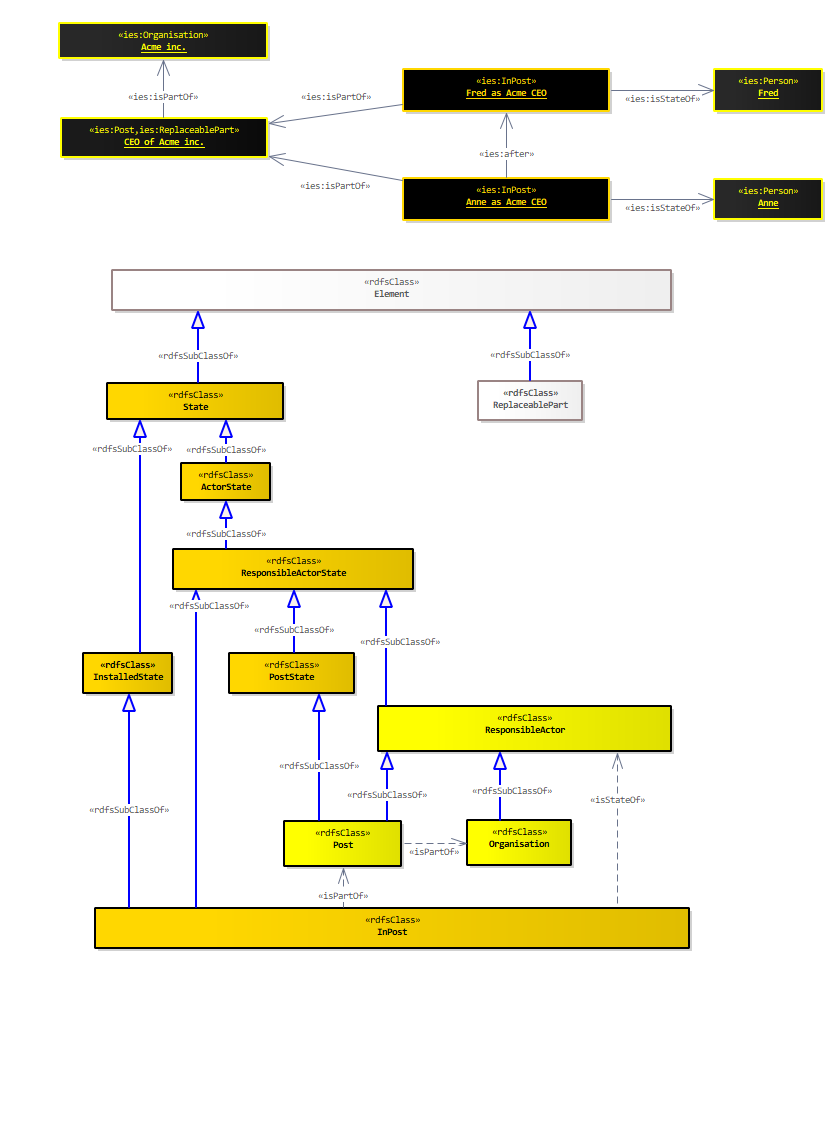
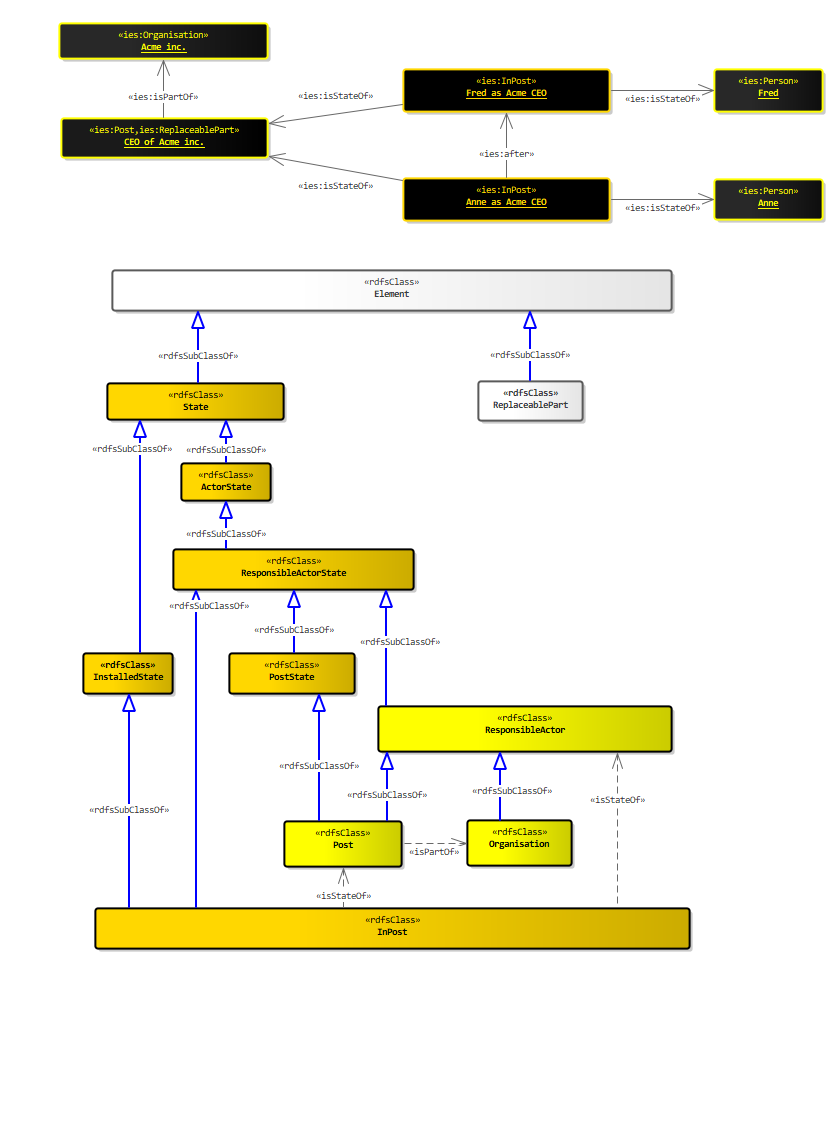
update documentation with isStateOf fix for InstalledState relation to ReplaceablePart plus minor definition changes for Assessment, Colour and ISO4217

diff --git a/ies.md b/ies.md
@@ -263,6 +263,7 @@ Otherwise, things to watch out for in the UML are:
 <ul>
 	<li>Removal of <b>hasRole</b>, <b>Role </b>and <b>OrganisationRole </b>(breaking change). Instead use <b>ReplaceablePart</b>/<b>InPost</b> example now provided in the same pattern</li>
 	<li>Update to definition of <b>InPost </b>now that is also a <b>InstalledState</b></li>
+	<li>Corrected relationship between <b>inPost </b>and <b>Post </b>from isPartOf to <b>isStateOf</b></li>
 </ul>
 5. Changes to <b>Assessment </b>pattern:
 <ul>
@@ -2788,7 +2789,7 @@ An Event where an actor makes a subjective judgement against a thing. This can b
 
 Examples include:
 - Having 'HIGH' confidence that Anne committed the murder.
-- Assessing a statement made in an internet article as with being true or false.
+- Assessing a statement made in an internet article as being true or false.
 - Assessing a house to having an energy performance of 'B'
 - Assessing the odds of England winning the World Cup as 20-1
 
@@ -3075,7 +3076,7 @@ An <a href="#{B376370E-F5E8-4287-A3EC-AC35532919B1}"><font color="#0000ff"><u>Ev
 Note: whilst colocation can be easily inferred from data, sometimes it's important to call out specific instances where entities of interest were in the same place at the same time.
 
 ### <a id="{B10D22FB-1D6A-47c9-B1C0-E870D43A5C52}"></a>Colour
-An Characteristic whose members all have the same colour
+A Characteristic whose members all have the same colour
 
 ### <a id="{1456439C-65C9-4a39-A743-09A7D0FBF248}"></a>CommercialOrganisation
 An <a href="#{1ECB4C6E-6A30-4dc5-A4AC-9A9DF5B6A54F}"><font color="#0000ff"><u>Organisation</u></font></a> that is run for profit
